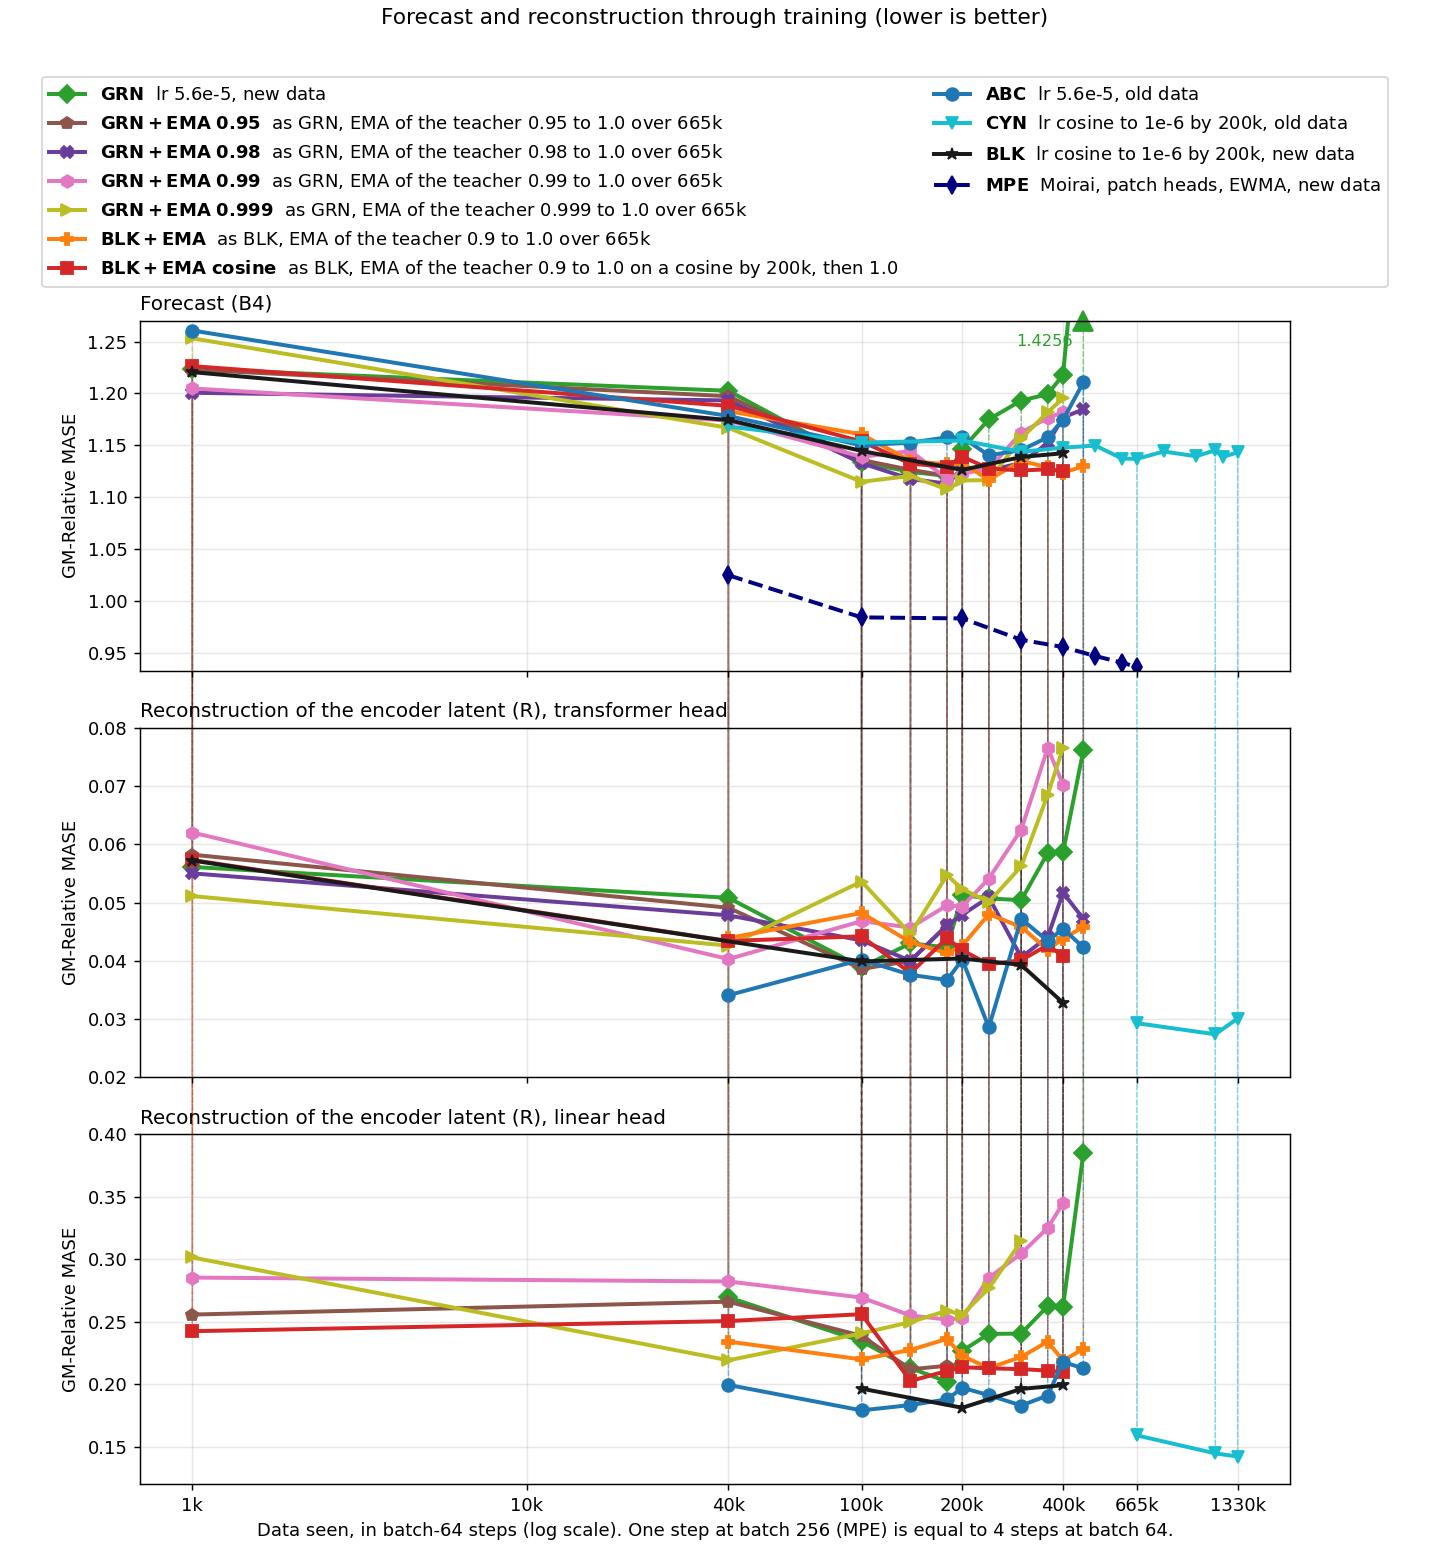
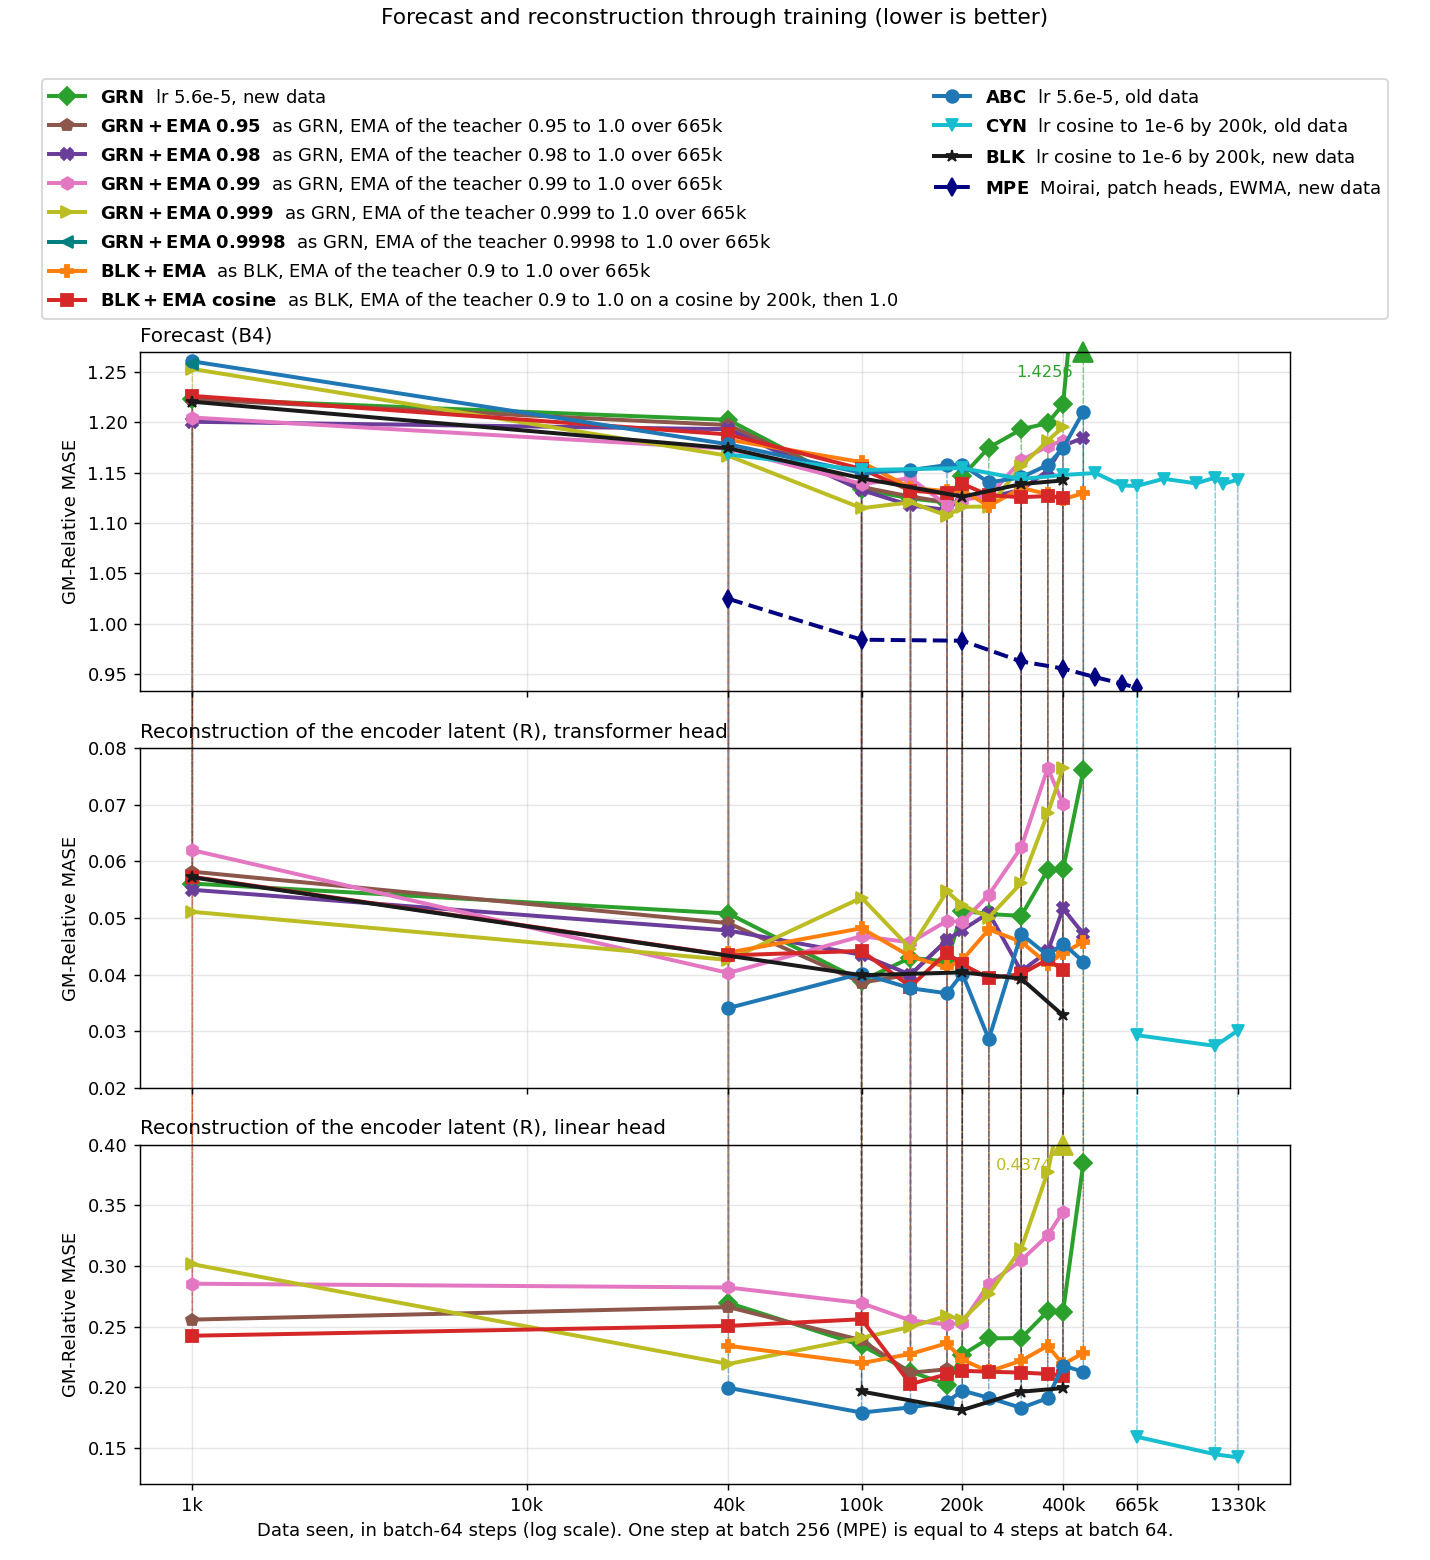
Frequency-family report: linear R of grn_ema0999 at 360k and 400k, first forecast of grn_ema09998
The run in progress (grn_ema09998) is drawn above the others, so that
its first point shows at 1k.

diff --git a/reports/2026-10-10_frequency_family_head/scripts/plot_green_scores.py b/reports/2026-10-10_frequency_family_head/scripts/plot_green_scores.py
@@ -67,6 +67,8 @@ NEW_RUNS = [GREEN, BLK_EMA, GRN_EMA095, GRN_EMA, GRN_EMA099, GRN_EMA0999, GRN_EM
             BLK_EMACOS]
 # Older runs with a forecast at 1k steps in results/scores.tsv: arm -> run.
 FIRST_STEPS = {"cf419_cos200k": "blk", P + "_lr10x": "abc"}
+# The run in progress: drawn above the others, so that its first points show.
+ON_TOP = {GRN_EMA09998}
 MPE = "cf421ew_moirai_native"
 # Its R (transformer head 0.12 to 0.21) lies far above the R panels.
 FORECAST_ONLY = {MPE}
@@ -160,7 +162,8 @@ def draw_panel(ax, title, y_range, points):
         values = [points[arm][s] for s in stops]
         low = min(low, min(values) - 0.02 * (y_range[1] - y_range[0]))
         ax.plot([s * 1000 for s in stops], values, color=colour_hex, marker=marker,
-                ls=line(arm) if arm in STYLE else "-", lw=2.2, ms=7, label=label)
+                ls=line(arm) if arm in STYLE else "-", lw=2.2, ms=7, label=label,
+                zorder=3 if arm in ON_TOP else 2)
         for stop, value in zip(stops, values):
             if value > y_range[1]:
                 ax.plot(stop * 1000, y_range[1], "^", ms=11, color=colour_hex, clip_on=False)
